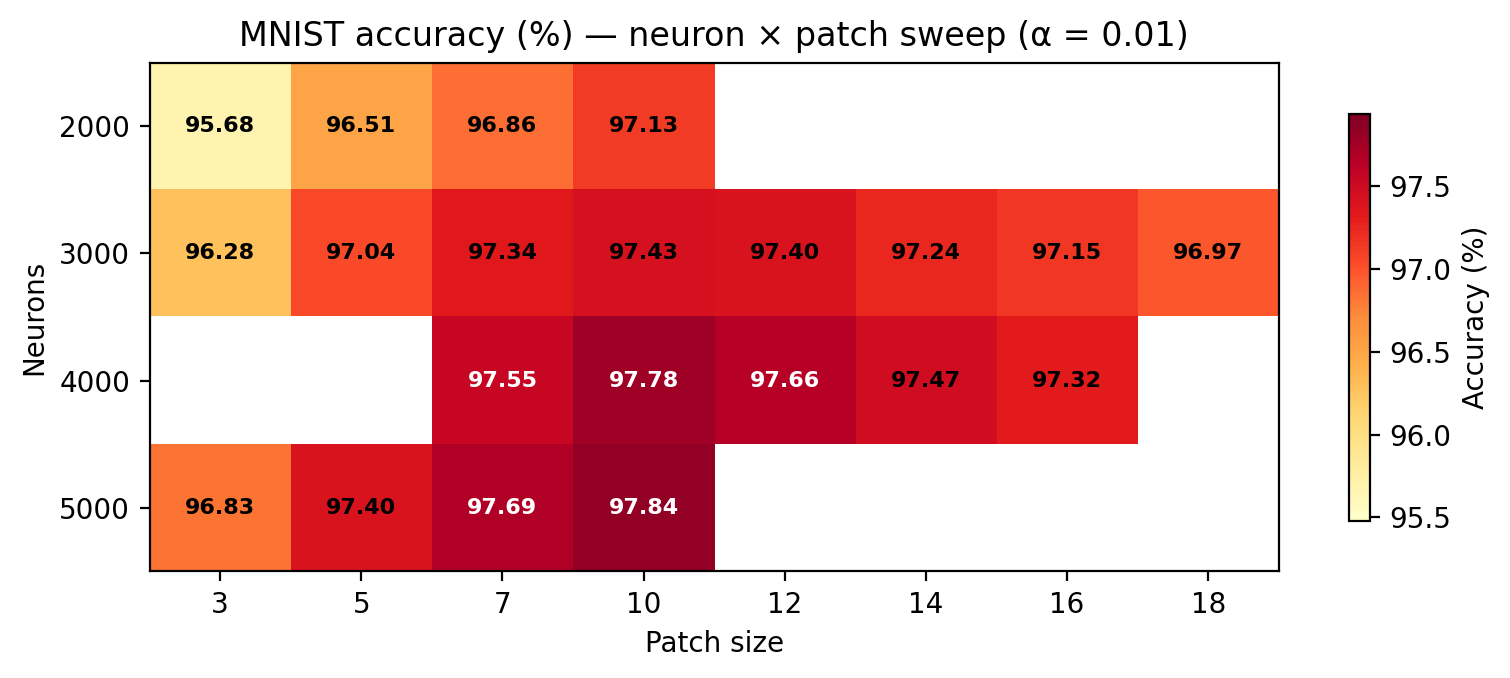
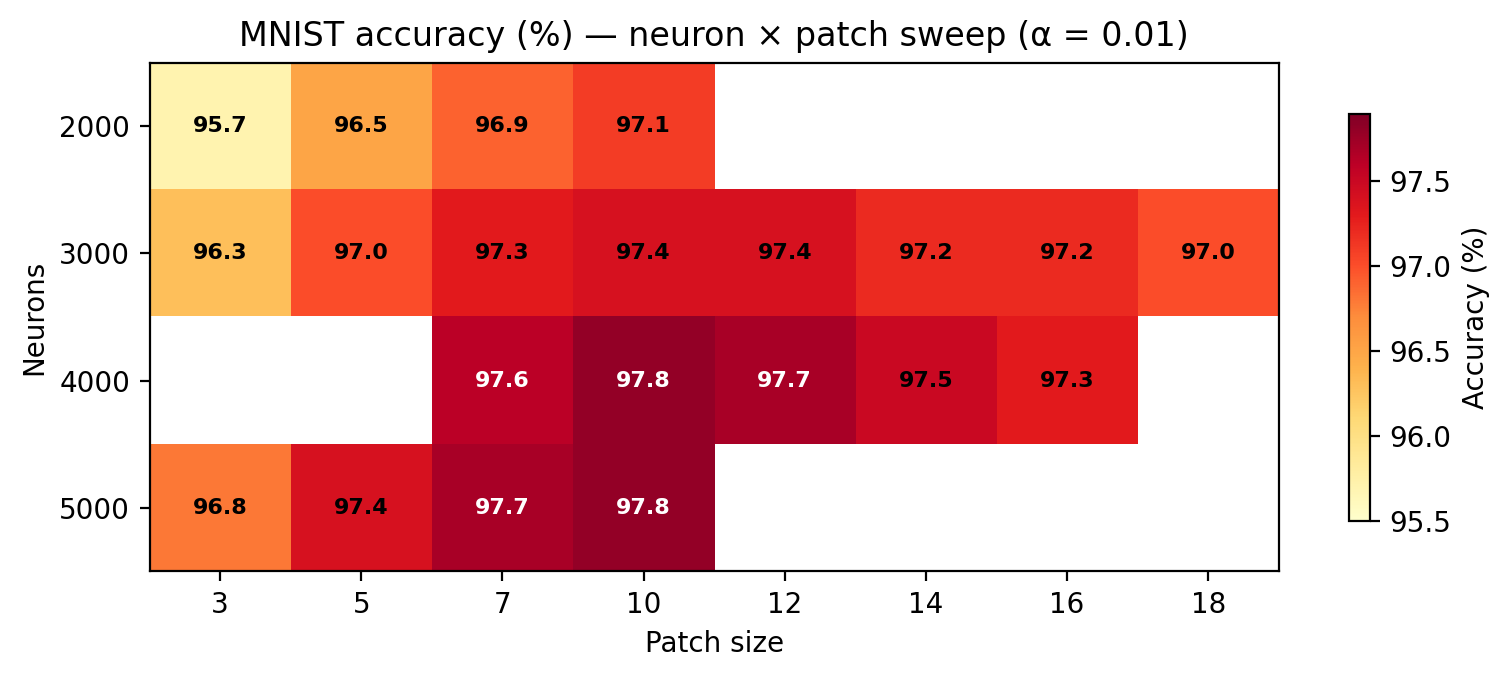
docs: update figures with rounded data and add streaming/GPU charts
Update generate_figures.py:
- Round all hardcoded percentages to one decimal
- Update Fashion-MNIST config from 14000n/89.74% to 12000n/89.7%
- Fix American English (colour → color)
- Add fig_streaming_neuron_scaling(): StreamNEF accuracy vs neuron count
  at different window sizes with LSTM baseline
- Add fig_gpu_speedup(): bar chart comparing Woodbury vs Accumulate
  training time on T4 GPU with speedup annotations
- Add C_LSTM color constant
- Fix ruff lint (unused variable w14)

Regenerate all 7 figure PNGs including the 2 new ones:
streaming_neuron_scaling.png and gpu_speedup.png.

diff --git a/docs/generate_figures.py b/docs/generate_figures.py
@@ -7,6 +7,7 @@ Usage:
 
 Outputs PNGs to docs/figures/.
 """
+
 from __future__ import annotations
 
 import argparse
@@ -18,11 +19,12 @@ import numpy as np
 
 OUTDIR = Path(__file__).parent / "figures"
 
-# ── colour palette (colourblind-friendly) ───────────────────────────────
+# ── color palette (colorblind-friendly) ─────────────────────────────────
 C_NEF = "#0072B2"  # blue
 C_MLP = "#D55E00"  # vermilion
 C_ENS = "#009E73"  # green
 C_GREY = "#999999"
+C_LSTM = "#CC79A7"  # pink
 DATASETS = ["MNIST", "Fashion-MNIST", "CIFAR-10"]
 
 
@@ -40,22 +42,20 @@ def _save(fig: plt.Figure, name: str, show: bool = False) -> None:
 # ═══════════════════════════════════════════════════════════════════════
 def fig_speed_accuracy(show: bool = False) -> None:
     """Scatter comparing best NEF configs to MLP across all 3 datasets."""
-    # (dataset_idx, label, accuracy, time_s, colour, marker)
+    # (dataset_idx, label, accuracy, time_s, color, marker)
     points = [
         # MLP baselines
-        (0, "MLP", 98.50, 83, C_MLP, "s"),
-        (1, "MLP", 89.70, 83, C_MLP, "s"),
-        (2, "MLP", 52.70, 83, C_MLP, "s"),
+        (0, "MLP", 98.5, 83, C_MLP, "s"),
+        (1, "MLP", 89.7, 83, C_MLP, "s"),
+        (2, "MLP", 52.7, 83, C_MLP, "s"),
         # Best NEF
-        (0, "NEF RF 12k", 98.50, 52, C_NEF, "o"),
-        (1, "NEF RF 14k", 89.74, 82, C_NEF, "o"),
-        (2, "NEF 10×3k", 58.44, 53, C_ENS, "^"),
+        (0, "NEF RF 12k", 98.5, 52, C_NEF, "o"),
+        (1, "NEF RF 12k", 89.7, 59, C_NEF, "o"),
+        (2, "NEF 10×3k", 58.4, 53, C_ENS, "^"),
     ]
 
     fig, axes = plt.subplots(1, 3, figsize=(12, 3.6), sharey=False)
-    fig.suptitle(
-        "NEF single-layer RF vs gradient-trained MLP", fontsize=12, y=1.02
-    )
+    fig.suptitle("NEF single-layer RF vs gradient-trained MLP", fontsize=12, y=1.02)
 
     # Per-dataset y-axis ranges that give breathing room without distortion
     ylims = [(96, 100), (88.5, 90.5), (50, 60)]
@@ -67,7 +67,7 @@ def fig_speed_accuracy(show: bool = False) -> None:
             # Offset vertically when points are close
             va = "bottom" if i == 0 else "top"
             ax.annotate(
-                f"  {acc:.2f}% / {t}s",
+                f"  {acc:.1f}% / {t}s",
                 (t, acc),
                 fontsize=8,
                 va=va,
@@ -95,32 +95,44 @@ def fig_alpha_tuning(show: bool = False) -> None:
     """Effect of Tikhonov α on test accuracy for each dataset."""
     # MNIST: 12000n, RF patch=10
     mnist_alpha = [5e-4, 1e-3, 5e-3, 1e-2, 2e-2]
-    mnist_acc = [98.50, 98.46, 98.36, 98.26, 98.12]
+    mnist_acc = [98.5, 98.5, 98.4, 98.3, 98.1]
 
-    # Fashion: 14000n, RF patch=5
+    # Fashion: 12000n, RF patch=5
     fash_alpha = [1e-4, 5e-4, 1e-3, 2e-3, 5e-3, 1e-2]
-    fash_acc = [89.35, 89.71, 89.74, 89.74, 89.56, 89.49]
+    fash_acc = [89.3, 89.6, 89.7, 89.7, 89.5, 89.4]
 
     # CIFAR-10: 10×3000 RF patch=5
     cifar_alpha = [1e-4, 5e-4, 1e-3, 5e-3, 1e-2]
-    cifar_acc = [58.44, 58.31, 58.15, 57.62, 56.94]
+    cifar_acc = [58.4, 58.3, 58.2, 57.6, 56.9]
 
     fig, axes = plt.subplots(1, 3, figsize=(12, 3.6))
-    fig.suptitle("Regularisation (α) tuning — the decisive lever", fontsize=12, y=1.02)
+    fig.suptitle("Regularization (α) tuning — the decisive lever", fontsize=12, y=1.02)
 
     configs = [
-        ("MNIST (12k neurons, patch 10)", mnist_alpha, mnist_acc, 98.50),
-        ("Fashion (14k neurons, patch 5)", fash_alpha, fash_acc, 89.70),
-        ("CIFAR-10 (10×3k, patch 5)", cifar_alpha, cifar_acc, 52.70),
+        ("MNIST (12k neurons, patch 10)", mnist_alpha, mnist_acc, 98.5),
+        ("Fashion (12k neurons, patch 5)", fash_alpha, fash_acc, 89.7),
+        ("CIFAR-10 (10×3k, patch 5)", cifar_alpha, cifar_acc, 52.7),
     ]
 
     for ax, (title, alphas, accs, mlp_baseline) in zip(axes, configs):
         ax.semilogx(alphas, accs, "o-", color=C_NEF, linewidth=2, markersize=6)
-        ax.axhline(mlp_baseline, color=C_MLP, linestyle="--", linewidth=1.5,
-                    label=f"MLP baseline ({mlp_baseline}%)")
+        ax.axhline(
+            mlp_baseline,
+            color=C_MLP,
+            linestyle="--",
+            linewidth=1.5,
+            label=f"MLP baseline ({mlp_baseline}%)",
+        )
         best_idx = int(np.argmax(accs))
-        ax.scatter([alphas[best_idx]], [accs[best_idx]], c="gold",
-                   edgecolors="black", s=120, zorder=10, label="Best α")
+        ax.scatter(
+            [alphas[best_idx]],
+            [accs[best_idx]],
+            c="gold",
+            edgecolors="black",
+            s=120,
+            zorder=10,
+            label="Best α",
+        )
         ax.set_title(title, fontsize=9)
         ax.set_xlabel("Tikhonov α")
         ax.set_ylabel("Test accuracy (%)")
@@ -140,16 +152,19 @@ def fig_neuron_patch_heatmap(show: bool = False) -> None:
     patches = [3, 5, 7, 10, 12, 14, 16, 18]
 
     # NaN for cells not measured
-    data = np.array([
-        [95.68, 96.51, 96.86, 97.13, np.nan, np.nan, np.nan, np.nan],
-        [96.28, 97.04, 97.34, 97.43, 97.40, 97.24, 97.15, 96.97],
-        [np.nan, np.nan, 97.55, 97.78, 97.66, 97.47, 97.32, np.nan],
-        [96.83, 97.40, 97.69, 97.84, np.nan, np.nan, np.nan, np.nan],
-    ])
+    data = np.array(
+        [
+            [95.7, 96.5, 96.9, 97.1, np.nan, np.nan, np.nan, np.nan],
+            [96.3, 97.0, 97.3, 97.4, 97.4, 97.2, 97.2, 97.0],
+            [np.nan, np.nan, 97.6, 97.8, 97.7, 97.5, 97.3, np.nan],
+            [96.8, 97.4, 97.7, 97.8, np.nan, np.nan, np.nan, np.nan],
+        ]
+    )
 
     fig, ax = plt.subplots(figsize=(8, 3.5))
-    im = ax.imshow(data, cmap="YlOrRd", aspect="auto",
-                   vmin=np.nanmin(data) - 0.2, vmax=np.nanmax(data) + 0.1)
+    im = ax.imshow(
+        data, cmap="YlOrRd", aspect="auto", vmin=np.nanmin(data) - 0.2, vmax=np.nanmax(data) + 0.1
+    )
 
     ax.set_xticks(range(len(patches)))
     ax.set_xticklabels(patches)
@@ -163,9 +178,17 @@ def fig_neuron_patch_heatmap(show: bool = False) -> None:
         for j in range(len(patches)):
             v = data[i, j]
             if not np.isnan(v):
-                colour = "white" if v > 97.5 else "black"
-                ax.text(j, i, f"{v:.2f}", ha="center", va="center",
-                        fontsize=8, color=colour, fontweight="bold")
+                color = "white" if v > 97.5 else "black"
+                ax.text(
+                    j,
+                    i,
+                    f"{v:.1f}",
+                    ha="center",
+                    va="center",
+                    fontsize=8,
+                    color=color,
+                    fontweight="bold",
+                )
 
     fig.colorbar(im, ax=ax, label="Accuracy (%)", shrink=0.8)
     fig.tight_layout()
@@ -185,12 +208,12 @@ def fig_neuron_scaling(show: bool = False) -> None:
 
     fig, (ax1, ax2) = plt.subplots(1, 2, figsize=(10, 3.8))
 
-    for accs, label, colour in [
+    for accs, label, color in [
         (mnist, "MNIST", C_NEF),
         (fashion, "Fashion", C_ENS),
         (cifar, "CIFAR-10", C_MLP),
     ]:
-        ax1.semilogx(neurons, accs, "o-", label=label, color=colour, linewidth=2)
+        ax1.semilogx(neurons, accs, "o-", label=label, color=color, linewidth=2)
 
     ax1.set_xlabel("Neurons")
     ax1.set_ylabel("Test accuracy (%)")
@@ -200,11 +223,10 @@ def fig_neuron_scaling(show: bool = False) -> None:
 
     ax2.loglog(neurons, times, "o-", color=C_NEF, linewidth=2)
     ns = np.array(neurons, dtype=float)
-    ax2.loglog(ns, 2 * (ns / 2000) ** 2, "--", color=C_GREY, linewidth=1,
-               label="O(n²) reference")
+    ax2.loglog(ns, 2 * (ns / 2000) ** 2, "--", color=C_GREY, linewidth=1, label="O(n²) reference")
     ax2.set_xlabel("Neurons")
     ax2.set_ylabel("Training time (s)")
-    ax2.set_title("Time scaling (CPU-only)")
+    ax2.set_title("Time scaling (CPU)")
     ax2.legend(fontsize=8)
     ax2.grid(True, alpha=0.3)
 
@@ -228,9 +250,9 @@ def fig_method_comparison(show: bool = False) -> None:
         "NEF RF+α*",
         "MLP (SGD)",
     ]
-    mnist = [85.3, 95.7, 95.0, 98.6, 98.6, 98.5, 98.6, 98.50, 98.5]
-    fashion = [81.0, 85.9, 85.4, 90.2, 90.1, 90.3, 90.6, 89.74, 89.7]
-    cifar = [39.6, 47.8, 45.6, 52.7, 51.0, 58.5, 58.4, 58.44, 52.7]
+    mnist = [85.3, 95.7, 95.0, 98.6, 98.6, 98.5, 98.6, 98.5, 98.5]
+    fashion = [81.0, 85.9, 85.4, 90.2, 90.1, 90.3, 90.6, 89.7, 89.7]
+    cifar = [39.6, 47.8, 45.6, 52.7, 51.0, 58.5, 58.4, 58.4, 52.7]
 
     x = np.arange(len(methods))
     w = 0.25
@@ -257,6 +279,86 @@ def fig_method_comparison(show: bool = False) -> None:
 
 
 # ═══════════════════════════════════════════════════════════════════════
+# Figure 6 — StreamNEF: accuracy vs neuron count at different windows
+# ═══════════════════════════════════════════════════════════════════════
+def fig_streaming_neuron_scaling(show: bool = False) -> None:
+    """StreamNEF accuracy vs neuron count for different window sizes."""
+    neurons = [2000, 4000, 6000, 8000, 10000]
+
+    # Best α per configuration (from sweep table)
+    w7 = [97.0, 97.8, np.nan, np.nan, np.nan]
+    w10 = [97.2, 98.1, 98.4, 98.6, 98.6]
+    w14_pts = ([4000], [98.1])  # sparse data for window=14
+
+    fig, ax = plt.subplots(figsize=(7, 4))
+
+    ax.plot(
+        neurons[:2],
+        [v for v in w7 if not np.isnan(v)],
+        "s-",
+        color=C_ENS,
+        linewidth=2,
+        label="Window = 7",
+    )
+    ax.plot(neurons, w10, "o-", color=C_NEF, linewidth=2, label="Window = 10")
+    ax.plot(*w14_pts, "^", color=C_MLP, markersize=10, label="Window = 14")
+
+    ax.axhline(98.3, color=C_LSTM, linestyle="--", linewidth=1.5, label="LSTM-128 (98.3%)")
+    ax.axhline(97.2, color=C_GREY, linestyle=":", linewidth=1, label="StreamNEF 2000n (23s)")
+
+    ax.set_xlabel("Neurons")
+    ax.set_ylabel("Test accuracy (%)")
+    ax.set_title("StreamNEF sMNIST-row: accuracy vs neuron count")
+    ax.legend(fontsize=8, loc="lower right")
+    ax.grid(True, alpha=0.3)
+    ax.set_ylim(96.5, 99.0)
+
+    fig.tight_layout()
+    _save(fig, "streaming_neuron_scaling", show)
+
+
+# ═══════════════════════════════════════════════════════════════════════
+# Figure 7 — GPU speedup: Woodbury vs Accumulate
+# ═══════════════════════════════════════════════════════════════════════
+def fig_gpu_speedup(show: bool = False) -> None:
+    """Bar chart: Woodbury vs Accumulate timing on T4 GPU."""
+    configs = ["2000n w=10", "8000n w=10"]
+    woodbury = [8.1, 93.2]
+    accumulate = [1.1, 8.3]
+    speedups = [w / a for w, a in zip(woodbury, accumulate)]
+
+    fig, (ax1, ax2) = plt.subplots(1, 2, figsize=(10, 4))
+
+    x = np.arange(len(configs))
+    w = 0.35
+    ax1.bar(x - w / 2, woodbury, w, label="Woodbury (float64)", color=C_MLP, alpha=0.85)
+    ax1.bar(x + w / 2, accumulate, w, label="Accumulate (float32)", color=C_NEF, alpha=0.85)
+
+    for i, (wb, ac) in enumerate(zip(woodbury, accumulate)):
+        ax1.text(i - w / 2, wb + 1, f"{wb}s", ha="center", fontsize=9)
+        ax1.text(i + w / 2, ac + 1, f"{ac}s", ha="center", fontsize=9)
+
+    ax1.set_xticks(x)
+    ax1.set_xticklabels(configs)
+    ax1.set_ylabel("Training time (s)")
+    ax1.set_title("T4 GPU: Woodbury vs Accumulate")
+    ax1.legend(fontsize=8)
+    ax1.grid(axis="y", alpha=0.3)
+
+    ax2.bar(x, speedups, 0.5, color=C_ENS, alpha=0.85)
+    for i, s in enumerate(speedups):
+        ax2.text(i, s + 0.3, f"{s:.0f}×", ha="center", fontsize=12, fontweight="bold")
+    ax2.set_xticks(x)
+    ax2.set_xticklabels(configs)
+    ax2.set_ylabel("Speedup factor")
+    ax2.set_title("Accumulate speedup over Woodbury")
+    ax2.grid(axis="y", alpha=0.3)
+
+    fig.tight_layout()
+    _save(fig, "gpu_speedup", show)
+
+
+# ═══════════════════════════════════════════════════════════════════════
 # Main
 # ═══════════════════════════════════════════════════════════════════════
 def main() -> None:
@@ -273,6 +375,8 @@ def main() -> None:
     fig_neuron_patch_heatmap(args.show)
     fig_neuron_scaling(args.show)
     fig_method_comparison(args.show)
+    fig_streaming_neuron_scaling(args.show)
+    fig_gpu_speedup(args.show)
     print("Done.")
 
 
